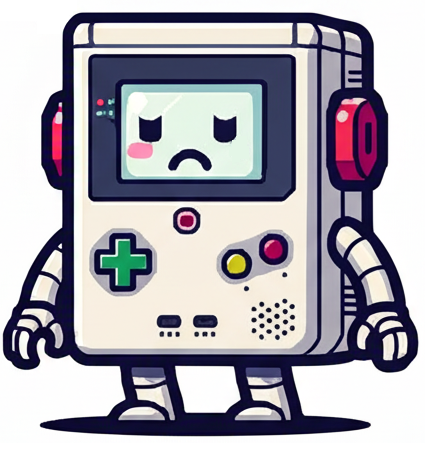
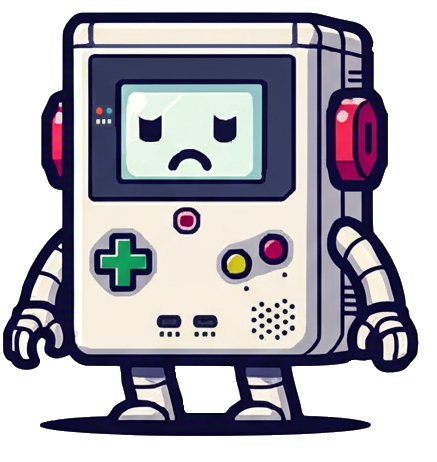
Clean up the art to look better in dark mode

Changed region(s): [[0.2677, 0.303, 0.357, 0.3636], [0.2082, 0.2121, 0.2677, 0.2727]]

diff --git a/frontend/src/index.css b/frontend/src/index.css
@@ -71,14 +71,14 @@ body {
   min-height: 100vh;
   margin: 0;
   padding: 20px;
-  box-sizing: border-box; /* Include padding in element's total width and height */
+  box-sizing: border-box;
 
   @media (max-width: 767px) {
     padding: 12px;
   }
 }
 
-/* Dark mode body background */
+/** A couple of custom dark mode rules */
 html.dark body {
   background: linear-gradient(90deg, #1f2937, #111827, #1f2937);
 }
@@ -184,6 +184,7 @@ html.dark #icons-container {
   justify-content: center;
 
   .eye {
+    filter: blur(1px);
     position: absolute;
     margin-top: 32px;
     display: inline-block;
@@ -228,33 +229,33 @@ html.dark #icons-container {
 
 /* Ensure the main container grows to fit content but stays centered */
 .game-container {
-    max-width: 600px; /* Max width for readability */
-    width: 100%; /* Full width on smaller screens */
+  max-width: 600px; /* Max width for readability */
+  width: 100%; /* Full width on smaller screens */
 }
 
 #mascot-image {
-    width: 150px;
-    height: 150px;
+  width: 150px;
+  height: 150px;
 }
 
 .tab-btn.active {
-    color: #1d4ed8;
-    border-bottom: 2px solid #1d4ed8;
+  color: #1d4ed8;
+  border-bottom: 2px solid #1d4ed8;
 }
 
 .suggestion-chip {
-    background-color: #e5e7eb;
-    color: #4b5563;
-    padding: 0.5rem 1rem;
-    border-radius: 9999px;
-    border: 1px solid #d1d5db;
-    cursor: pointer;
-    transition: background-color 0.2s, color 0.2s;
+  background-color: #e5e7eb;
+  color: #4b5563;
+  padding: 0.5rem 1rem;
+  border-radius: 9999px;
+  border: 1px solid #d1d5db;
+  cursor: pointer;
+  transition: background-color 0.2s, color 0.2s;
 }
 
 .suggestion-chip:hover {
-    background-color: #d1d5db;
-    color: #1f2937;
+  background-color: #d1d5db;
+  color: #1f2937;
 }
 
 .loading-spinner {

diff --git a/frontend/src/StartScreen.tsx b/frontend/src/StartScreen.tsx
@@ -84,8 +84,8 @@ function StartScreen() {
         ref={mouseWatchArea}
       >
       <div className="quiz-bot-head">
-        <div className="eye ml-12" ref={leftEye}><div className="pupil"></div></div>
-        <div className="eye mr-12" ref={rightEye}><div className="pupil"></div></div>
+        <div className="eye ml-14" ref={leftEye}><div className="pupil"></div></div>
+        <div className="eye mr-14" ref={rightEye}><div className="pupil"></div></div>
         <img src="/bot_boy/quiz-bot-head.png" alt="Quiz bot head" />
       </div>
       <div className="p-6 bg-white dark:bg-gray-800 text-gray-900 dark:text-white rounded-xl drop-shadow mb-6 pt-12">
